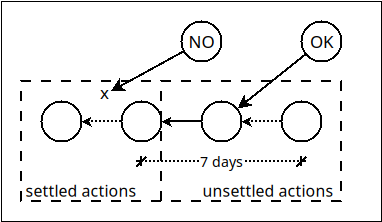
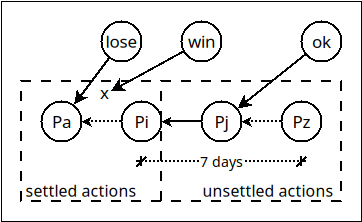
...

diff --git a/main.tex b/main.tex
@@ -1089,36 +1089,36 @@ In any case, it is unacceptable that an old remote branch affects an active
 local forum.
 
 Therefore, considering that forging long branches or returning from long
-absences are undistinguishable, reputation alone becomes a fragile criterion
+absences are indistinguishable, reputation alone becomes a fragile criterion
 for consensus.
 As the counterpoint illustrates, past members holding the majority of \reps at
 any point in time could still override the present, which corresponds to the
 \emph{long-range attack} in proof-of-stake~\cite{pos.weak}.
 
+\begin{figure}
+\centering
+\includegraphics[width=0.4\textwidth]{hard.png}
+\caption{
+    7-day settling window over consensus timeline.
+}
+\label{fig.hard}
+\end{figure}
+
 As a countermeasure, \FC protects settled local branches from outdated actions,
 which corresponds to checkpoints in proof-of-stake~\cite{pos.weak}.
 %
-As Figure~\ref{fig.hard} illustrates, actions are frozen 7 days after they
-enter the local order, counting in chain time (\S\ref{sec.design.poa}).
-
- as of
-their position in the order, not as of their declared timestamps.
-Hence, a losing branch that arrives with old timestamps is appended and remains
-loose for 7 days, during which it can still be refuted as in
-\S\ref{sec.design.partitions.farming}.
-If a winning branch would reorder frozen actions, the merge is refused and the
-two peers become incompatible, which is analogous to a hard fork in Bitcoin.
-Since consensus time follows from the DAG, peers holding the same DAG reach
-the same verdict, and the 7-day window is a chain constant set at creation:
-chats may settle faster, newsgroups slower.
+As Figure~\ref{fig.hard} illustrates, actions settle 7 days after they enter
+the local order, counting in position timestamps in the consensus timeline
+(\S\ref{sec.design.time}).
+A branch whose fork point is unsettled is always merged (\code{ok}).
+However, settled fork points only merge losing branches (\code{lose}), but
+never winning branches (\code{win}).
 %
-Peers that remain active and synchronize over time evolve together with a
-stable order, whereas a member back after longer must discard its local branch
-and repost its actions.
-% TODO: 2.13.h
-In an idle forum, however, a farmed branch is a fast-forward rather than a
-fork, so it enters unchallenged and can only be undone by revoking its posts
-(\R{3.d}) or by a deliberate hard fork.
+The last rule, which is analogous to a hard fork in Bitcoin, makes the syncing
+peers incompatible, protecting \code{branch-1} from $a$ and $b$ in the scenario
+above.
+Since chain time cannot be forged or accelerated, peers holding the same DAG
+reach the same verdict.
 
 In summary, the consensus rules to merge a local branch \code{L} with a remote
 branch \code{R} are as follows:
